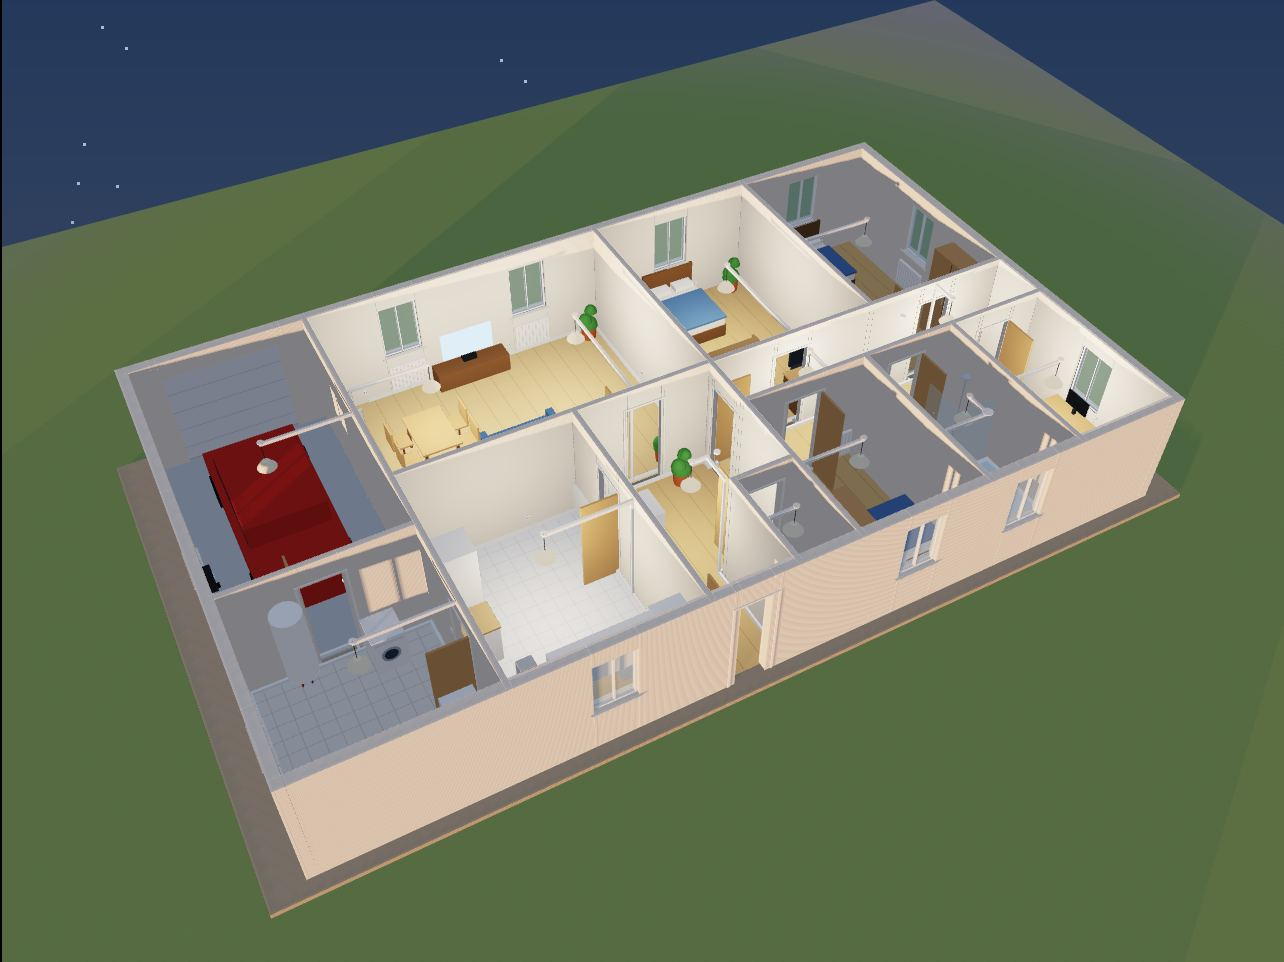
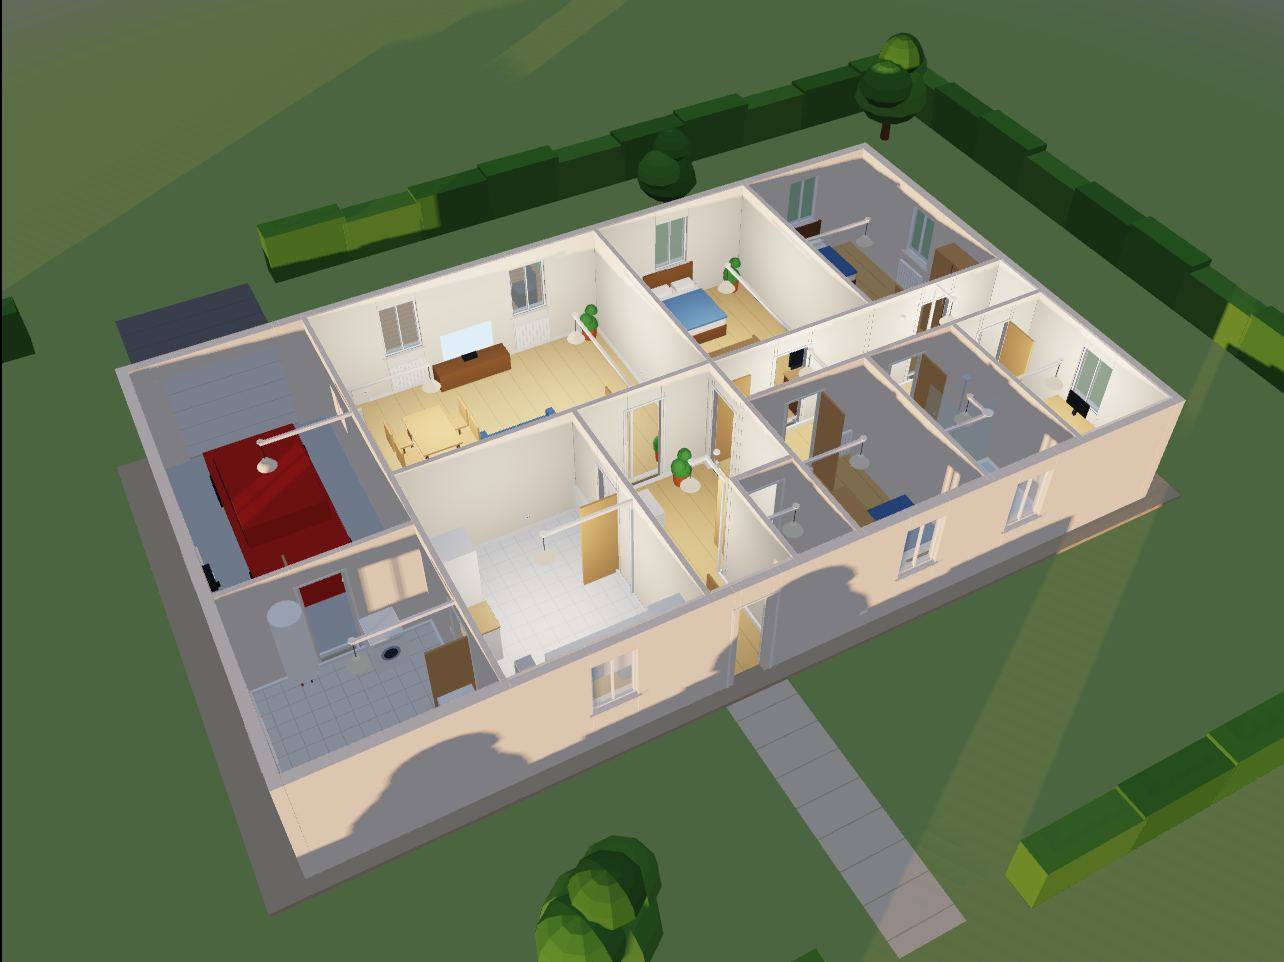
3D : ombres sur tout le terrain, soleil rasant sans acné ; site mis à jour
- Ombres et brume calculées sur le terrain entier (haie, arbres), plus
  seulement sur la maison ; ombres très longues au coucher conservées
  au-delà du plan lointain ; biais proportionnel à la pente (pelouse
  sans « acné » quand le soleil rase).
- Site : image du héros avec le jardin, galerie 3D en 2 × 2 (extérieur,
  visite, rayons X, journée type), la journée type citée dans C3.

Claude-Session: https://claude.ai/code/session_012vXqKX4kicWuKVAN5PtXFm

diff --git a/index.html b/index.html
@@ -176,7 +176,7 @@
         <div>
           <p class="sec-kicker">Tableau &amp; physique</p>
           <h2 id="t-tableau">Un tableau qui disjoncte pour de vrai.</h2>
-          <p class="sec-lead">Circuits, sections, différentiels 30 mA et abonnement sont calculés. Puis la simulation fait chauffer les disjoncteurs, détecte les courts-circuits et les fuites à la terre.</p>
+          <p class="sec-lead">Circuits, sections, différentiels 30 mA et abonnement sont calculés. Puis la simulation fait chauffer les disjoncteurs, détecte les courts-circuits et les fuites à la terre — et une <b>journée type</b> fait défiler repas, lessive, chauffage et heures creuses, kWh et euros à la clé.</p>
         </div>
       </header>
       <div class="bench-grid">
@@ -235,17 +235,21 @@
         </div>
       </header>
       <div class="shots">
-        <figure class="shot shot-big">
-          <img src="img/accueil/visite.jpg" alt="Vue à hauteur d’yeux dans le séjour de la maison T5" width="1280" height="800" loading="lazy" />
+        <figure class="shot">
+          <img src="img/accueil/exterieur.jpg" alt="La maison T5 vue de l’extérieur : toit en tuiles, terrasse, allée, haie et arbres" width="1056" height="660" loading="lazy" />
+          <figcaption><b>Extérieur</b> : toiture, terrasse, allées, jardin — et l’export du modèle en <code>.glb</code>.</figcaption>
+        </figure>
+        <figure class="shot">
+          <img src="img/accueil/visite.jpg" alt="Vue à hauteur d’yeux dans le séjour de la maison T5" width="1056" height="660" loading="lazy" />
           <figcaption><b>Visite</b> à hauteur d’yeux, au clavier, à la souris ou au joystick tactile.</figcaption>
         </figure>
         <figure class="shot">
-          <img src="img/accueil/rayons-x.jpg" alt="Rayons X : les câbles de chaque circuit visibles à travers les murs" width="1280" height="800" loading="lazy" />
+          <img src="img/accueil/rayons-x.jpg" alt="Rayons X : les câbles de chaque circuit visibles à travers les murs" width="1056" height="660" loading="lazy" />
           <figcaption><b>Rayons X</b> : chaque câble, à la couleur de son circuit.</figcaption>
         </figure>
         <figure class="shot">
-          <img src="img/accueil/nuit.jpg" alt="La maison la nuit, vue de dessus, lampes allumées" width="1280" height="800" loading="lazy" />
-          <figcaption><b>De jour comme de nuit</b> : les lampes allumées éclairent leur pièce.</figcaption>
+          <img src="img/accueil/nuit.jpg" alt="La maison la nuit, vue de dessus, lampes allumées" width="1056" height="660" loading="lazy" />
+          <figcaption><b>Journée type</b> : 24 h en 48 s, le soleil tourne et les lampes s’allument d’elles-mêmes.</figcaption>
         </figure>
       </div>
       <p class="sec-more"><a href="app.html?ex=maison-t5&amp;3d=1">Lancer la visite de la maison T5 <span aria-hidden="true">→</span></a></p>

diff --git a/css/landing.css b/css/landing.css
@@ -506,15 +506,13 @@ code { font-family: var(--f-mono); font-size: 0.88em; padding: 1px 5px; border-r
 .bench-note { margin: 14px 0 0; font-size: 12px; color: var(--faint); text-wrap: pretty; }
 
 /* C4 — captures 3D */
-.shots { display: grid; grid-template-columns: minmax(0, 7fr) minmax(0, 5fr); grid-template-rows: auto auto; gap: 20px; }
+.shots { display: grid; grid-template-columns: repeat(2, minmax(0, 1fr)); gap: 24px 20px; }
 .shot { margin: 0; }
-.shot-big { grid-row: span 2; }
 .shot img {
   width: 100%; height: auto; aspect-ratio: 16 / 10; object-fit: cover; border-radius: 12px;
   background: var(--console); border: 1px solid var(--line-strong);
   outline: 1px solid rgba(0, 0, 0, 0.06); outline-offset: -1px;
 }
-.shot-big img { aspect-ratio: auto; height: calc(100% - 36px); min-height: 320px; }
 .shot figcaption { margin-top: 10px; font-size: 14px; color: var(--muted); text-wrap: pretty; }
 .shot figcaption b { color: var(--ink); }
 
@@ -699,9 +697,6 @@ code { font-family: var(--f-mono); font-size: 0.88em; padding: 1px 5px; border-r
   .plan-grid, .norm-wrap, .bench-grid, .lab-grid { grid-template-columns: 1fr; }
   .plan-fig { order: -1; }
   .lab-preview { position: static; }
-  .shots { grid-template-columns: 1fr 1fr; }
-  .shot-big { grid-column: 1 / -1; grid-row: auto; }
-  .shot-big img { height: auto; min-height: 0; aspect-ratio: 16 / 10; }
   .dl-grid { grid-template-columns: repeat(2, minmax(0, 1fr)); }
   .foot-grid, .in-app .foot-grid { grid-template-columns: 1fr 1fr; }
   .foot-brand { grid-column: 1 / -1; }

diff --git a/js/gl3d.js b/js/gl3d.js
@@ -86,11 +86,16 @@ void main() {
     float sh = 1.0;
     if (uShadowOn > 0.5) {
       vec3 p = vSun.xyz / vSun.w * 0.5 + 0.5;
-      if (p.x > 0.0 && p.x < 1.0 && p.y > 0.0 && p.y < 1.0 && p.z < 1.0) {
+      if (p.x > 0.0 && p.x < 1.0 && p.y > 0.0 && p.y < 1.0) {
+        // au-delà du plan lointain (ombres très longues au coucher) : on compare au plus loin
+        float pz = min(p.z, 0.9995);
+        // biais proportionnel à la pente : soleil rasant sans « acné » sur la pelouse
+        float nc = max(ndl, 0.02);
+        float bias = clamp(0.0008 + 0.00035 * sqrt(1.0 - nc * nc) / nc, 0.0008, 0.012);
         vec2 ts = 1.0 / vec2(textureSize(uShadow, 0));
         sh = 0.0;
         for (int i = -1; i <= 1; i++) for (int j = -1; j <= 1; j++)
-          sh += texture(uShadow, vec3(p.xy + vec2(float(i), float(j)) * ts * 1.5, p.z - 0.0008));
+          sh += texture(uShadow, vec3(p.xy + vec2(float(i), float(j)) * ts * 1.5, pz - bias));
         sh /= 9.0;
       }
     }
@@ -361,7 +366,7 @@ class GL3D extends Viz3D {
 
   // Emprise utile (la maison, pas le terrain) : cadre la carte d'ombre et la brume
   _focusBox() {
-    const b = this.bounds, s = this.sceneBox;
+    const b = this.outerBounds || this.bounds, s = this.sceneBox; // terrain compris (ombres de la haie, des arbres)
     if (!b || !s) return s;
     return { min: [b.minX - 60, s.min[1], b.minZ - 60], max: [b.maxX + 60, s.max[1], b.maxZ + 60] };
   }

diff --git a/js/viz3d.js b/js/viz3d.js
@@ -948,6 +948,7 @@ function buildBoard(viz, components, wires, symbols, opts) {
   const W = maxX - minX, D = maxZ - minZ;
   if (!opts.keepCamera) viz.target = [cx, 0, cz];
   viz.bounds = { minX, minZ, maxX, maxZ };
+  viz.outerBounds = null;
 
   if (!houseMode) {
     viz.scene = null;
@@ -1223,6 +1224,7 @@ function _buildRoof(viz, ex) {
 function _buildGarden(viz, components, info, ex) {
   const M = 520; // marge du terrain autour de la maison
   const lot = { minX: ex.minX - M, minZ: ex.minZ - M, maxX: ex.maxX + M, maxZ: ex.maxZ + M };
+  viz.outerBounds = lot;
   const GY = -9.8;
   // Côté de la maison le plus proche d'un point : 'N' (z min), 'S', 'W' (x min), 'E'
   const sideOf = (x, z) => {
